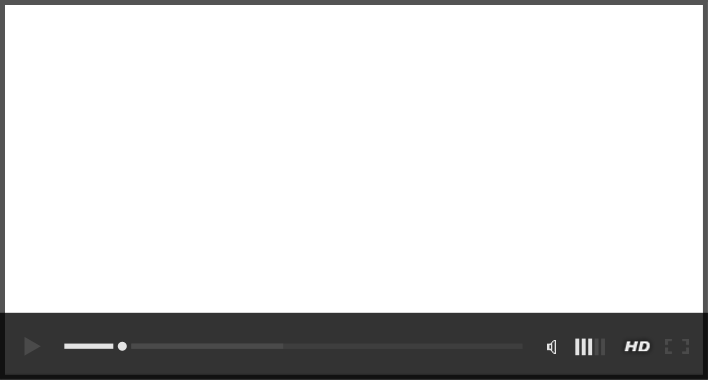
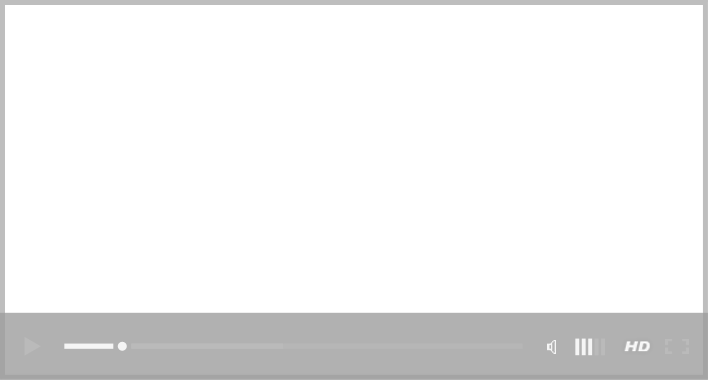
update  with player placeholder

Changed region(s): [[0.0, 0.0, 1.0, 1.0]]

diff --git a/scss/style.scss b/scss/style.scss
@@ -143,3 +143,17 @@ h1, h3, p {
   }
 }
 
+.videoPlaceHolder {
+  position: relative;
+  text-align: center;
+  color: white;
+}
+
+/* Bottom left text */
+.videoPlaceHolderText {
+  position: absolute;
+  top: 50%;
+  left: 50%;
+  transform: translate(-50%, -50%);
+}
+
